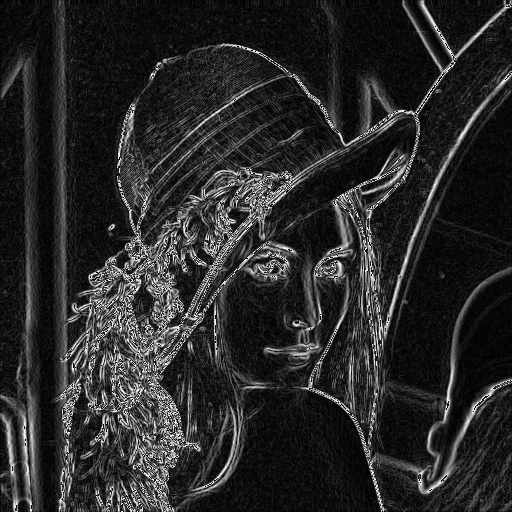
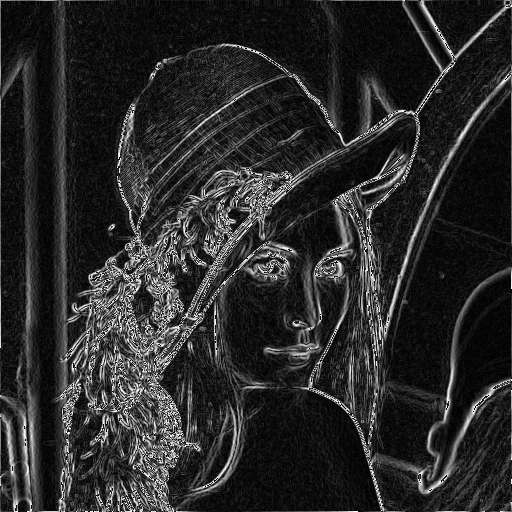
albo po prostu polowa wartosci zamiast srodkowego elementu do maski

Changed region(s): [[0.9688, 0.9688, 1.0, 1.0], [0.0, 0.0, 0.0312, 0.0312]]

diff --git a/projekt1/main_seq.c b/projekt1/main_seq.c
@@ -123,15 +123,15 @@ Pixel* sobel_operator(Pixel* pixels, int width, int height) {
             // 0 1 2
             // 3 4 5
             // 6 7 8
-            sobel_prep[0] = (i-1 >= 0 && j-1 >= 0) ? pixels[(i-1)*width+j-1].r : pixels[(i)*width+j].r;    
-            sobel_prep[1] = (i-1 >= 0) ? pixels[(i-1)*width+j].r : pixels[(i)*width+j].r;   
-            sobel_prep[2] = (i-1 >= 0 && j+1 < width) ? pixels[(i-1)*width+j+1].r : pixels[(i)*width+j].r;
-            sobel_prep[3] = (j-1 >= 0) ? pixels[(i)*width+j-1].r : pixels[(i)*width+j].r;     
+            sobel_prep[0] = (i-1 >= 0 && j-1 >= 0) ? pixels[(i-1)*width+j-1].r : 128;    
+            sobel_prep[1] = (i-1 >= 0) ? pixels[(i-1)*width+j].r : 128;   
+            sobel_prep[2] = (i-1 >= 0 && j+1 < width) ? pixels[(i-1)*width+j+1].r : 128;
+            sobel_prep[3] = (j-1 >= 0) ? pixels[(i)*width+j-1].r : 128;     
             sobel_prep[4] = pixels[(i)*width+j].r;      
-            sobel_prep[5] = (j+1 < width) ? pixels[(i)*width+j+1].r : pixels[(i)*width+j].r;
-            sobel_prep[6] = (i+1 < height && j-1 >= 0) ? pixels[(i+1)*width+j-1].r : pixels[(i)*width+j].r;   
-            sobel_prep[7] = (i+1 < height) ? pixels[(i+1)*width+j].r : pixels[(i)*width+j].r;  
-            sobel_prep[8] = (i+1 < height && j+1 < width) ? pixels[(i+1)*width+j+1].r : pixels[(i)*width+j].r;
+            sobel_prep[5] = (j+1 < width) ? pixels[(i)*width+j+1].r : 128;
+            sobel_prep[6] = (i+1 < height && j-1 >= 0) ? pixels[(i+1)*width+j-1].r : 128;   
+            sobel_prep[7] = (i+1 < height) ? pixels[(i+1)*width+j].r : 128;  
+            sobel_prep[8] = (i+1 < height && j+1 < width) ? pixels[(i+1)*width+j+1].r : 128;
 
             g_x = multiply_and_add(sobel_prep, x_kernel, 9);
             g_y = multiply_and_add(sobel_prep, y_kernel, 9);
